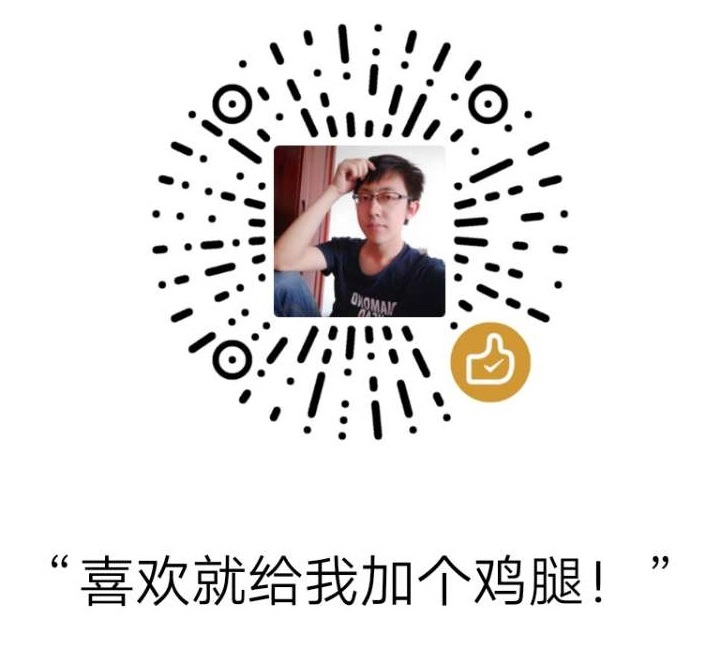
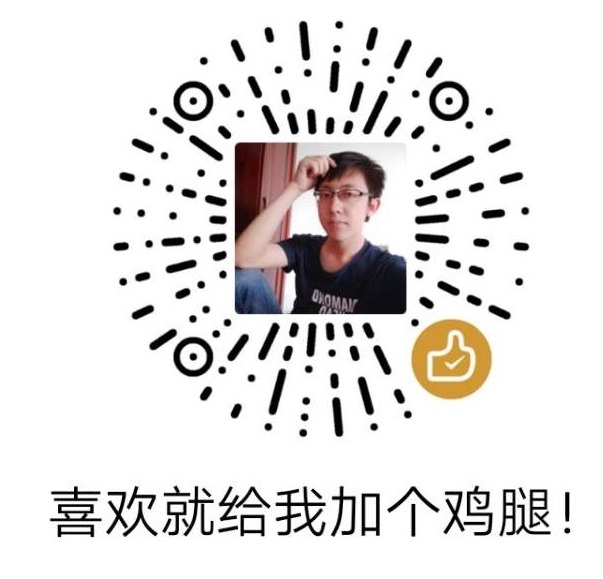
support页面

diff --git a/src/components/pay/support.vue b/src/components/pay/support.vue
@@ -3,8 +3,9 @@
     <v-modal v-if="getModalStatus" @close-modal="closeMoadl">
       <span slot="title">打赏鸡腿</span>
       <div slot="content">
-        <div class="modalContent">
-          <img src="../../assets/images/support.jpg"/></div>
+        <div class="imgContent">
+          <img src="../../assets/images/support.jpg"/>
+        </div>
         <div class="comfirm" @click="comfirm">
           <p>残忍拒绝</p>
           <p>已加鸡腿</p>
@@ -49,42 +50,29 @@
 
 <style lang="less" scoped>
   .payWay {
-    position: relative;
-    p {
-      font-size: 4vw;
-      margin-bottom: 2vh;
-    }
     > div {
       display: flex;
       justify-content: space-between;
-      .payWaySelected {
-        font-weight: bold;
-        font-size: 5vw;
-      }
-      .iconfont {
-        cursor: pointer;
-        font-size: 5vw;
-      }
     }
-    .modalContent {
+    .imgContent {
       text-align: center;
       img{
-        width: 100vw;
+        height: 46vh;
       }
     }
     .comfirm {
-      position: absolute;
-      bottom: 2vh;
-      left: 50%;
-      transform: translate(-50%);
+      height:16vh;
       cursor: pointer;
       display: flex;
       justify-content: center;
       border-radius: 90px;
-      align-self: flex-end;
+      align-items: center;
       p {
-        padding: 2vh 4vw;
         color: #fff;
+        height:8vh;
+        display: flex;
+        align-items: center;
+        padding: 0 4vw;
       }
       p:nth-of-type(1){
         background-color: #c7c7c7;border-radius: 90px 0 0 90px;
@@ -97,28 +85,9 @@
 
   @media screen and (min-width: 768px) {
     .payWay {
-      p {
-        font-size: 20px;
-        margin-bottom: 25px;
-      }
-      > div {
-        .payWaySelected {
-          font-size: 24px;
-        }
-        .iconfont {
-          font-size: 24px;
-        }
-      }
-      .modalContent {
-        img{
-          width: 410px;
-        }
-      }
       .comfirm {
-        bottom: 10px;
         p {
-          padding: 16px 30px;
-          color: #fff;
+          padding: 0 30px;
         }
       }
     }

diff --git a/src/common/_modal.vue b/src/common/_modal.vue
@@ -38,15 +38,17 @@
     > div {
       background-color: #fff;
       position: absolute;
-      top: 30vh;
+      bottom: 0;
       left: 0;
       height: 70vh;
       width: 100vw;
       .modal-top {
+        height:8vh;
         display: flex;
         justify-content: space-between;
-        padding: 3vw;
         > div {
+          margin: auto 0;
+          padding: 0 20px;
           font-size: 5vw;
           font-weight: bold;
         }
@@ -56,7 +58,7 @@
         }
       }
       .modalContent{
-        height:52vh;
+        height:62vh;
         overflow-y: auto;
         -webkit-overflow-scrolling: touch;
         &::-webkit-scrollbar {
@@ -69,11 +71,9 @@
   @media screen and (min-width: 768px) {
     .modal {
       width: 768px;
-      height: 100vh;
       > div {
         width: 768px;
         .modal-top {
-          padding: 20px;
           > div {
             font-size: 22px;
           }

diff --git a/src/components/index/header.vue b/src/components/index/header.vue
@@ -25,7 +25,7 @@
     height:8vh;
     display: flex;
     align-items: center;
-    font-size: 4vw;
+    font-size: 3vw;
     padding-left:4vw;
     z-index: 999;
     box-shadow: 0 0.5px 20px rgb(221, 221, 221);
@@ -37,15 +37,17 @@
     .search{
       cursor: text;
       border-radius:90px;background-color: #eee;width: 80%;text-align: center;
+      height:6vh;
       img{
-        width: 30%;padding: 5px 0;
+        height:4vh; padding: 1vh 0;
       }
     }
   }
 
   @media screen and (min-width: 768px) {
     header {
-      font-size: 28px;
+      font-size: 22px;
+      font-family:"Microsoft Himalaya";
       padding-left:28px;
       .icon-back{
         font-size:22px;

diff --git a/src/views/ProductDetail.vue b/src/views/ProductDetail.vue
@@ -1,6 +1,6 @@
 <template>
   <div class="main">
-    <v-menu-select :menuItems="menus" @menu-selected="menuSelected"></v-menu-select>
+    <v-menu-select :menuItems="menus" @menu-selected="menuSelected" :selected="selected"></v-menu-select>
     <!-- 商品页 -->
     <div v-if="selected == 0 && responseData" class="product">
       <v-banners :response="responseData"></v-banners>
@@ -45,7 +45,7 @@
     data () {
       return {
         showImageObj: '',
-        selected: 0, // navbar切换
+        selected: '0', // navbar切换
         rateResponse: [],
         responseData: '',
         menus: [

diff --git a/src/common/_menuSelect.vue b/src/common/_menuSelect.vue
@@ -68,7 +68,7 @@
       display: flex;
       font-size: 2vw;
       cursor: pointer;
-      border-bottom: 2px solid #fff;
+      border-bottom: 2px solid #fafafa;
       P {
         margin: auto;
       }
@@ -83,6 +83,9 @@
     .menu {
       margin-left: -384px;
       width: 768px;
+      .menu-item {
+        font-size: 18px;
+      }
     }
   }
 </style>
